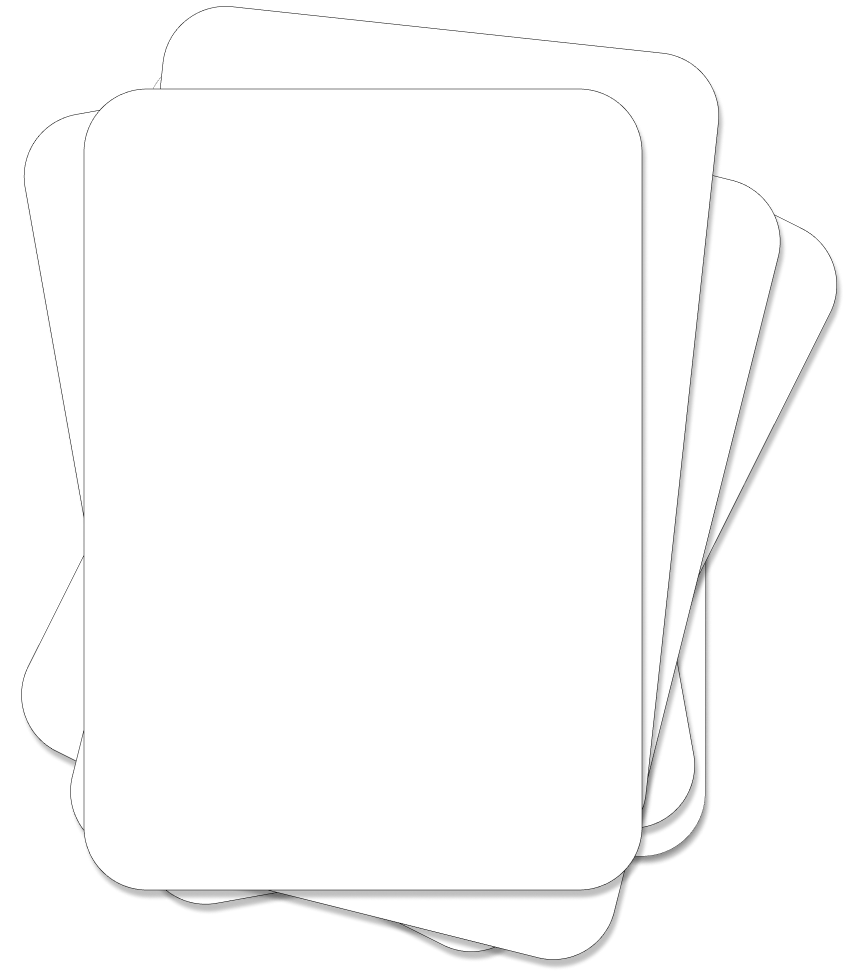
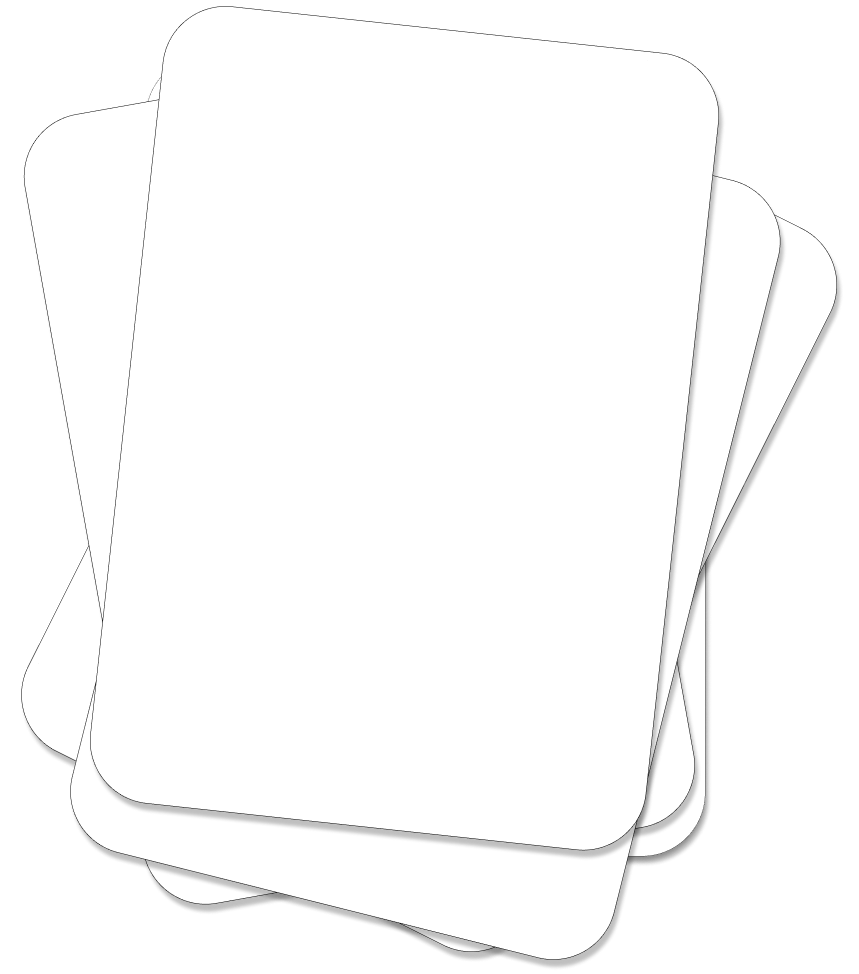
Button und Hintergrund zentriert
Former-commit-id: 990902264c91db626acc0235d5b3be192f1e4773

Changed region(s): [[0.0908, 0.154, 0.7567, 0.924], [0.0908, 0.5236, 0.1211, 0.8008]]

diff --git a/sys-src/Frontend/src/pages/startpage.js b/sys-src/Frontend/src/pages/startpage.js
@@ -11,28 +11,29 @@ function Startpage(){
     //let useParams = useParams();
 
     return (
-        <Container>
-        <Row className="vh-100">
-            <Col className="">
-                <div className="jumbotron d-flex h-100">
-                    <div className="text-white d-flex titlediv">
-                            <p className="gametitle">Cards<br/> Against<br/> Humanity</p>
-                    </div>
-                </div>
-            </Col>
-            <Col>
-                <div className="h-100 jumbotron2 d-flex">
-                    <div className=""> 
-                        <Row>
-                            <Button className="" variant="dark" onClick={ () =>  { navigate("/Room")}}> Join </Button>
+        <Container fluid className="vh-100">
+            <Row className="vh-100" xs={2}>
+                <Col className="justify-content-center flex-column d-flex h-100 blackdiv">
+                    <p className="text-center h1 text-white">Cards <br/> Against <br/> Humanity</p>
+                </Col>
+
+
+                <Col className="justify-content-center flex-column d-flex h-100 whitediv">
+                    <Col className="justify-content-center flex-column d-flex whitecard h-100">
+                        <Row className="justify-content-center">
+                            <Button className="w-auto">
+                                Join
+                            </Button>
                         </Row>
-                        <Row>
-                            <Button className="mt-5" variant="dark" onClick={ () =>  { navigate("/Room")}}> Create Game </Button>
+                        <Row className="justify-content-center">
+                            <Button className="w-auto mt-5">
+                                Create Game
+                            </Button>
                         </Row>
-                    </div>
-                </div>
-            </Col>
-        </Row>
+                    </Col>
+
+                </Col>
+            </Row>
         </Container>
     )
 }

diff --git a/sys-src/Frontend/src/pages/startpage.css b/sys-src/Frontend/src/pages/startpage.css
@@ -32,3 +32,23 @@
     justify-content: center;
     vertical-align: middle;
 }
+
+.blackdiv{
+    background-image: url(../imgs/blackcard.png);
+    background-position: center;
+    background-repeat: no-repeat;
+
+}
+
+.whitediv{
+    background-image: url(../imgs/cardstack.png);
+    background-position: center;
+    background-repeat: no-repeat;
+
+}
+
+.whitecard{
+    background-image: url(../imgs/whitecard.png);
+    background-position: center;
+    background-repeat: no-repeat;
+}
